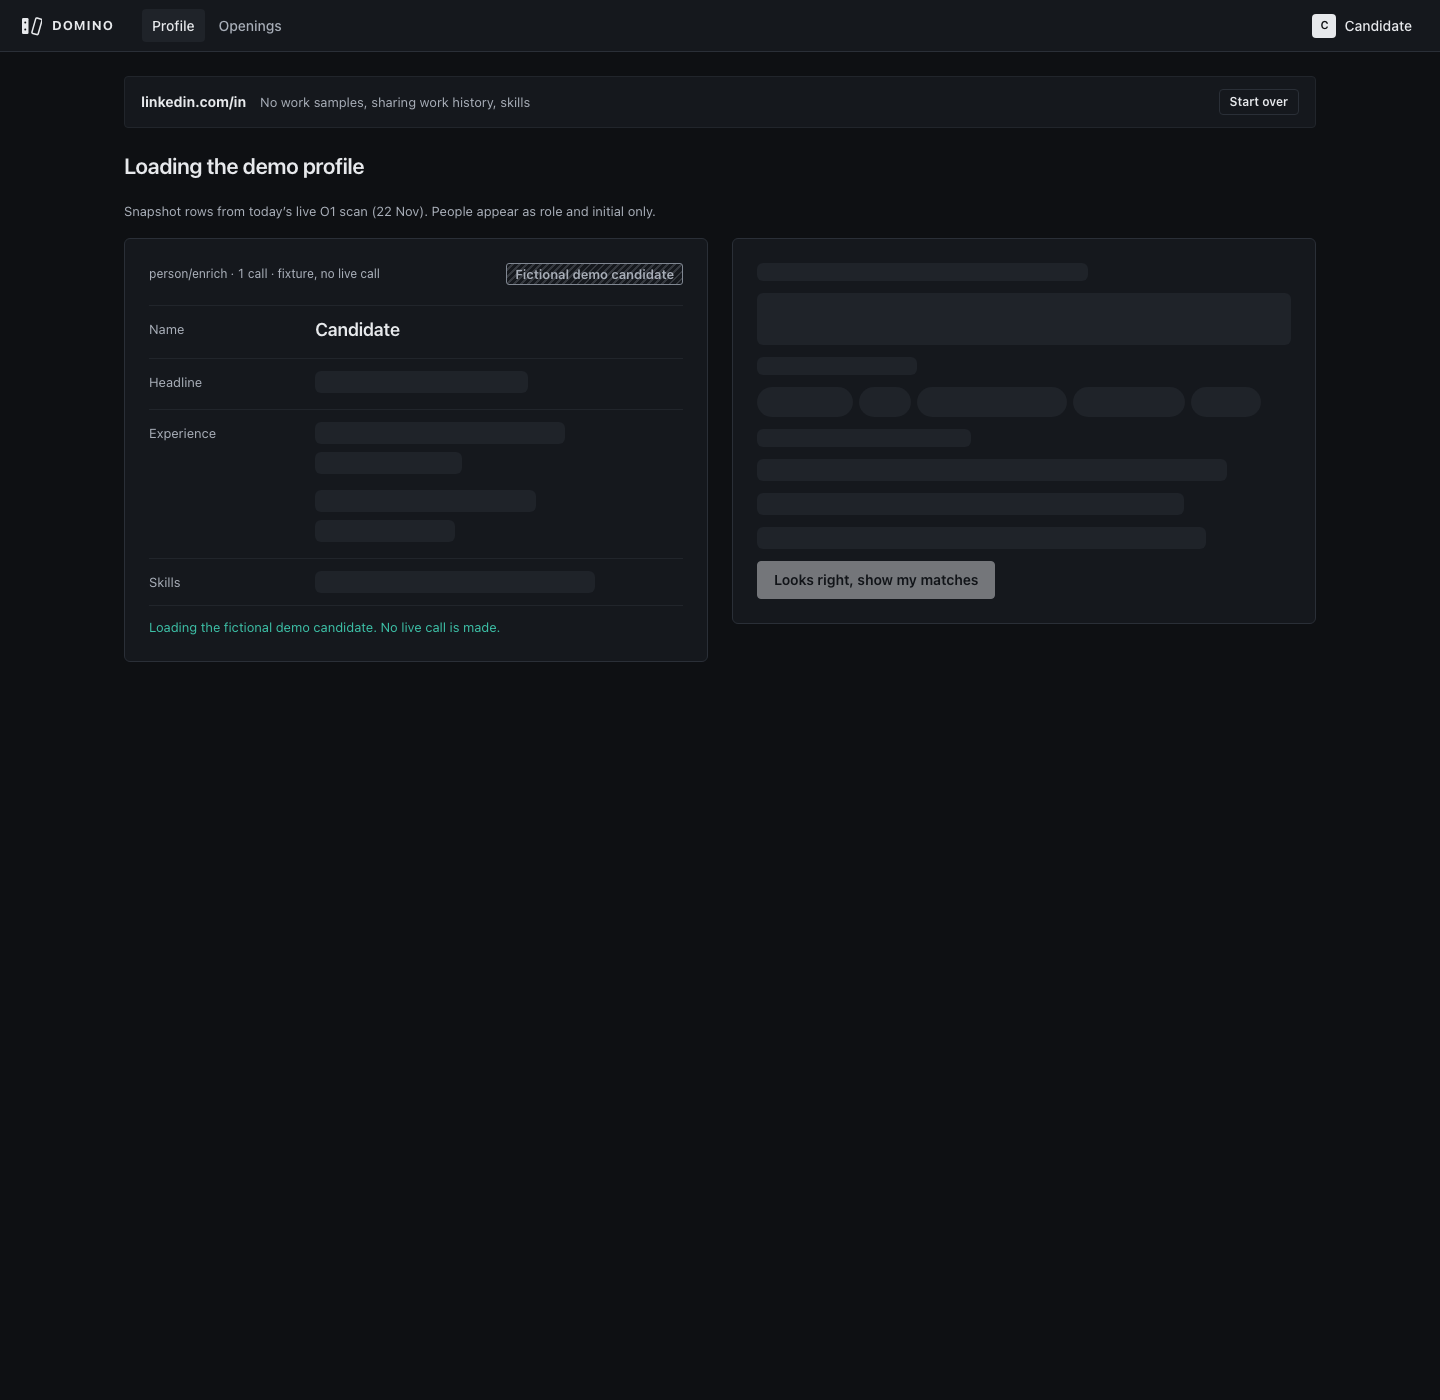
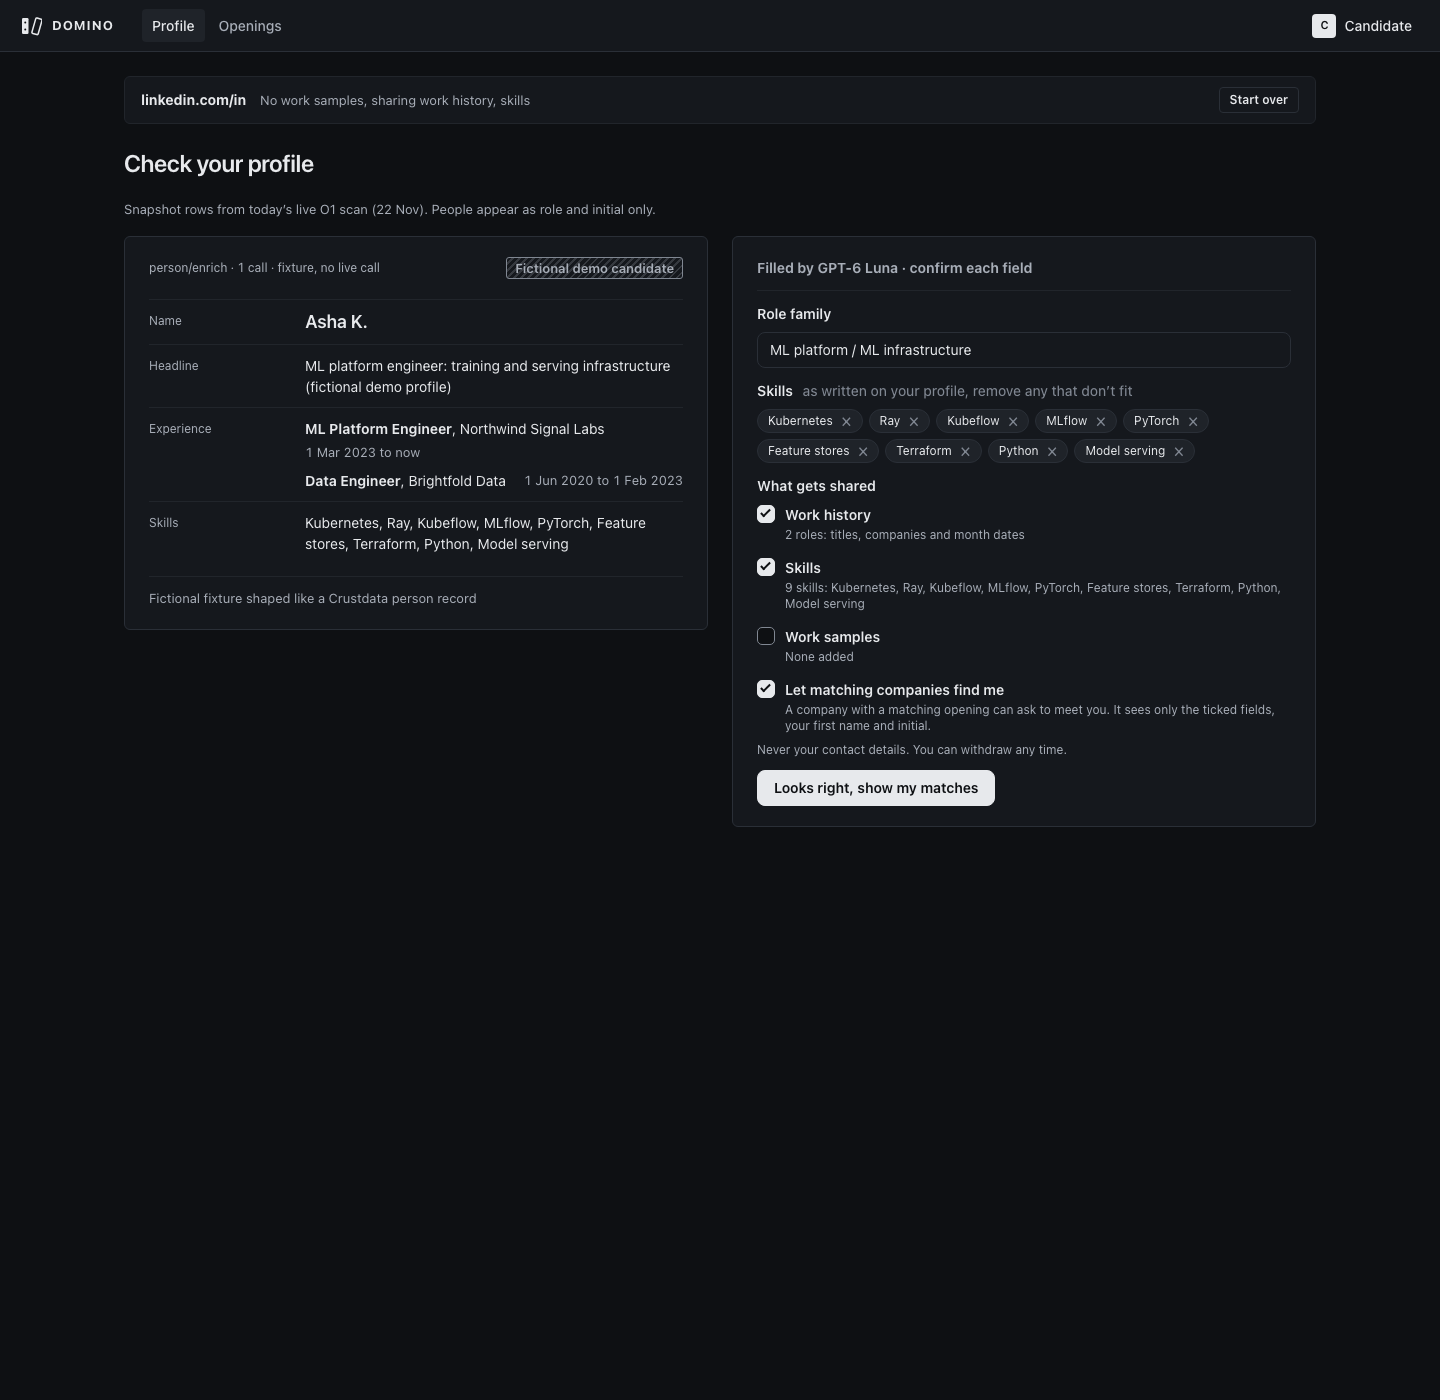
web2 candidate onboarding + profile check: tool-grade hierarchy on p5 tokens
36px controls at --r-ctl, cards at --r-lg, page title on --fs-page with tight tracking, 18px consent boxes,
compact profile field rows, smaller skill chips, tabular dates. Token vars carry px fallbacks until p5-shell merges.

diff --git a/web2/src/features/onboarding/onboarding.css b/web2/src/features/onboarding/onboarding.css
@@ -113,3 +113,27 @@
 @media (max-width: 1000px) {
   .onb-form, .onb-check-grid { grid-template-columns: 1fr; }
 }
+
+/* ---------------------------------------------------------------- tool-grade hierarchy (Garud 17:05)
+   Shared p5 tokens with fallbacks: page title, 13-14 labels, 14 body, 12 help; 36px controls at --r-ctl, cards at --r-lg. */
+.side-candidate .onb .onb-title, .side-candidate .onb .onb-h2 { font-size: var(--fs-page, 24px); line-height: var(--lh-page, 30px); letter-spacing: var(--track-tight, -0.02em); font-weight: var(--w-semi, 600); }
+.side-candidate .onb .onb-rule { font-size: var(--fs-ui, 13px); line-height: var(--lh-ui, 18px); max-width: 72ch; }
+.onb .onb-form { border-radius: var(--r-lg, 10px); padding: 24px; gap: 24px 40px; border-color: var(--hair, var(--line)); background: var(--surface); }
+.onb .onb-label, .onb .onb-consent legend { font-size: var(--fs-body, 14px); font-weight: var(--w-semi, 600); }
+.onb .onb-input, .onb .onb-input.small { height: var(--row-h-compact, 36px); padding: 0 12px; border-radius: var(--r-ctl, 8px); font-size: var(--fs-body, 14px); background: var(--surface); }
+.onb .onb-input:focus { box-shadow: 0 0 0 3px color-mix(in srgb, var(--live) 18%, transparent); }
+.onb .onb-go, .onb .onb-demo { height: var(--row-h-compact, 36px); padding: 0 16px; font-size: var(--fs-body, 14px); border-radius: var(--r-ctl, 8px); }
+.onb .consent { gap: 14px; }
+.onb .consent-item { grid-template-columns: 18px 1fr; gap: 10px; }
+.onb .consent-item input { width: 18px; height: 18px; }
+.onb .consent-box { width: 18px; height: 18px; border-radius: 5px; }
+.onb .consent-box::after { left: 5px; top: 1.5px; width: 5px; height: 10px; border-width: 0 2px 2px 0; }
+.onb .consent-text b { font-size: var(--fs-body, 14px); font-weight: var(--w-semi, 600); }
+.onb .consent-text span, .onb .onb-after, .onb .onb-keep { font-size: var(--fs-cap, 12px); line-height: var(--lh-cap, 16px); }
+.onb .pcard, .onb .onb-confirm-form { border-radius: var(--r-lg, 10px); padding: 20px 24px; }
+.onb .pcard-fields { gap: 0; }
+.onb .pcard-fields > div { grid-template-columns: 140px 1fr; padding: 10px 0; }
+.onb .pcard-fields dt { font-size: var(--fs-cap, 12px); }
+.onb .chip { height: 24px; padding: 0 10px; font-size: var(--fs-cap, 12px); }
+.onb .h-dates { font-variant-numeric: tabular-nums; }
+.onb .onb-summary { border-radius: var(--r-lg, 10px); padding: 10px 16px; }
